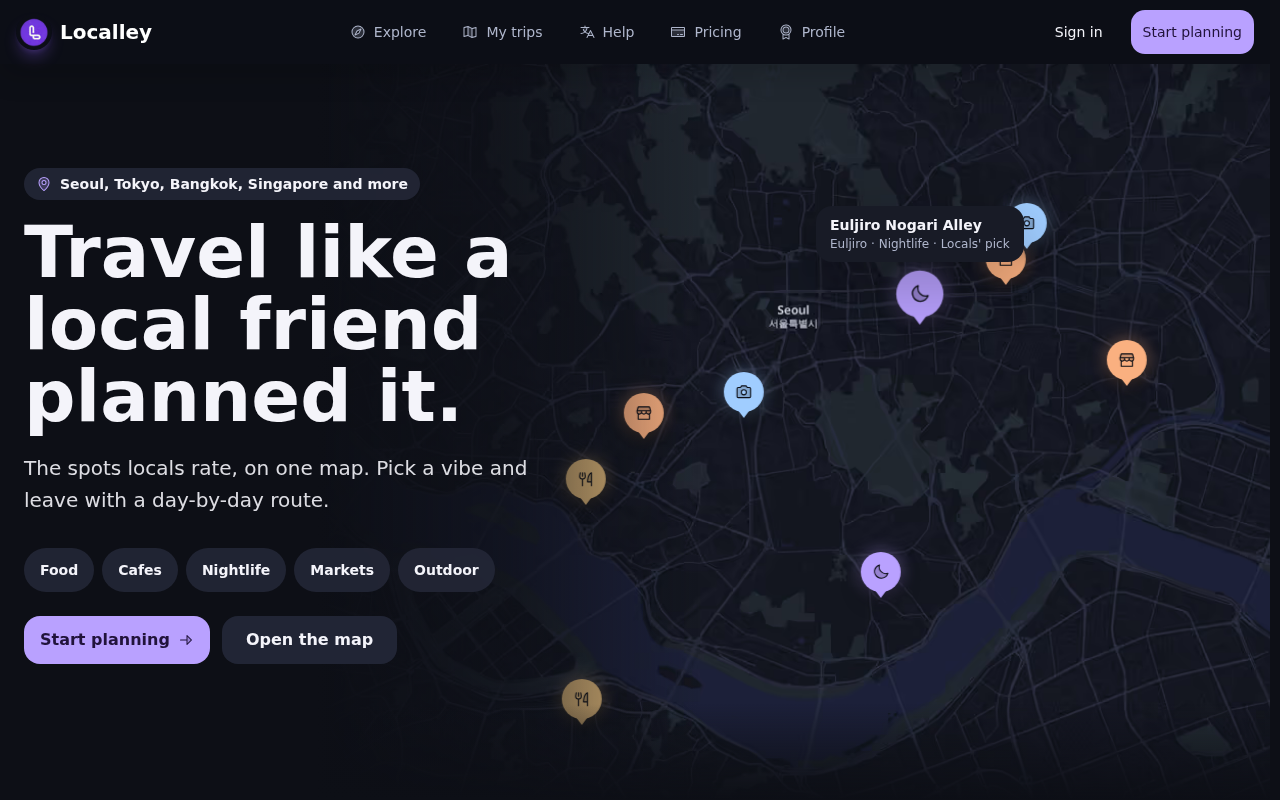
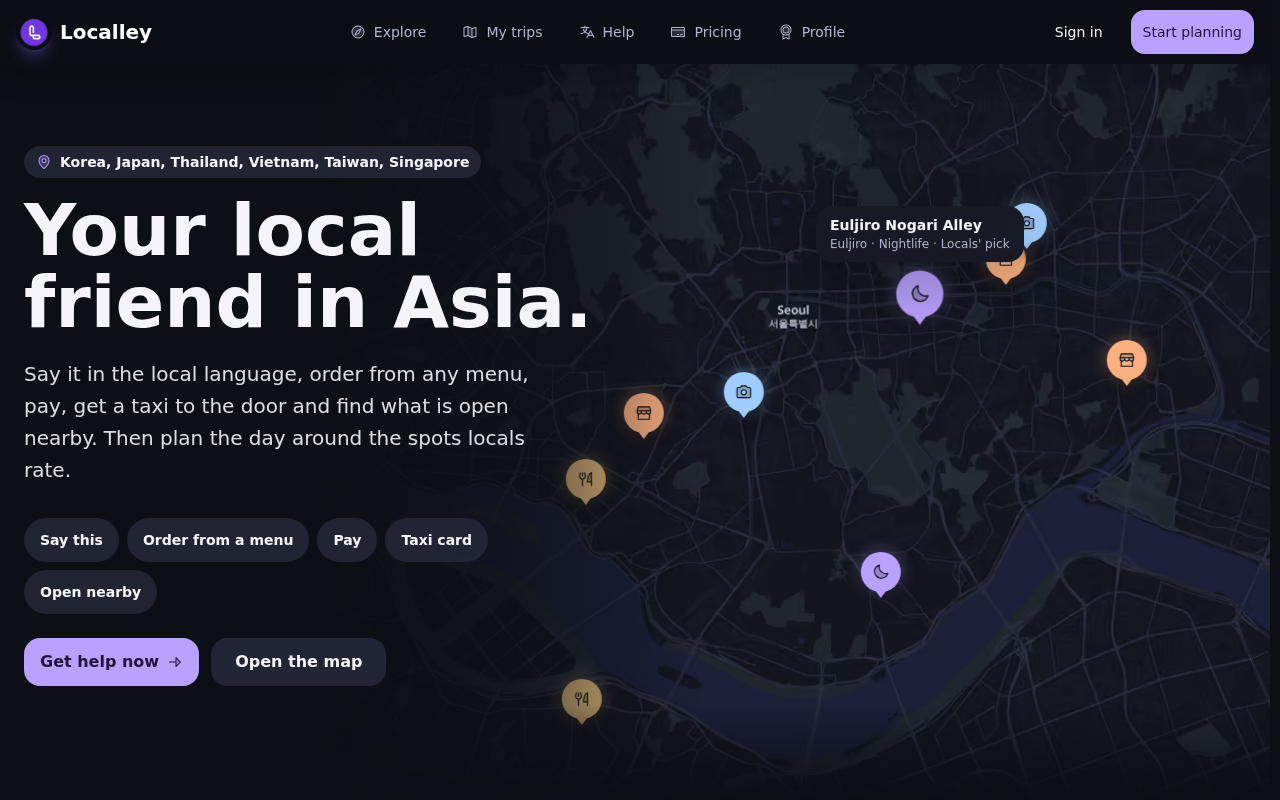
[builder] Launch kit: retake the two home screenshots after the helper-first hero
Shots taken from live 2f9af06 (390x844 @3x and 1280x800, 0 page errors).

Changed region(s): [[0.0, 0.1562, 0.4688, 0.875]]

diff --git a/marketing/README.md b/marketing/README.md
@@ -84,7 +84,7 @@ No Google Places photos appear in any asset (Places terms). Mobile (390x844 at 3
 
 | File | Shows |
 |---|---|
-| mobile-1-hero.png | Home hero: H1, vibe chips, Seoul map |
+| mobile-1-hero.png | Home hero: "Your local friend in Asia.", helper shortcuts, Seoul map |
 | mobile-2-spots.png | /spots: Discover Hidden Gems, cities with spot counts |
 | mobile-3-plan.png | Planner, trip details step (Seoul) |
 | mobile-4-help.png | "Help me say this" country cards |
@@ -94,7 +94,7 @@ Desktop (1280x800), in `screenshots/`:
 
 | File | Shows |
 |---|---|
-| desktop-1-home.png | Home hero with the map |
+| desktop-1-home.png | Home hero: "Your local friend in Asia.", helper shortcuts, Seoul map |
 | desktop-2-spots.png | /spots city list and trending rail |
 | desktop-3-plan.png | Planner, trip details step |
 | desktop-4-pricing.png | Pro and Premium cards |
